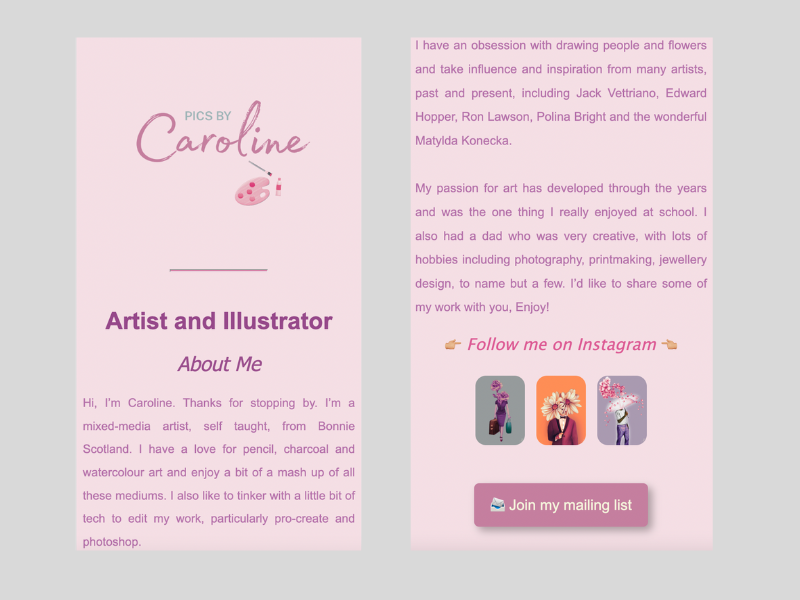
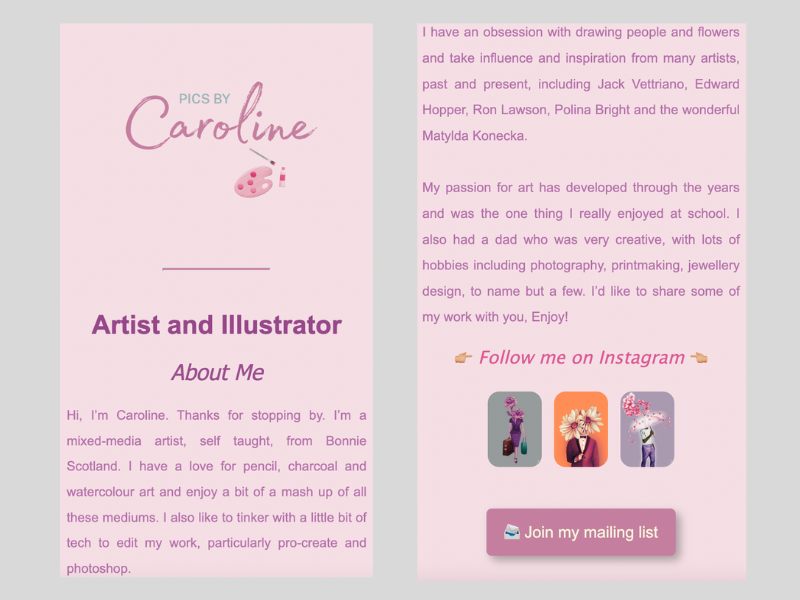
project page reposition and titles

diff --git a/projects.html b/projects.html
@@ -28,7 +28,7 @@
     
       <div class="container-fluid">
         <div class="row-intro">
-          <div class="hello"><a href="top"><h3 style="display: inline;">"Hello,  </h3></a><h3 class="name">I'm Caroline from Scotland.</h3><h3 style="display:inline">   I'm a web developer".</h3></div>
+          <div class="hello"><a href="top"><h3 style="display: inline;">"Here are a few of </h3></a><h3 style="display:inline" class="name">my projects".</h3></div>
           
           <nav class="navbar sticky-top navbar-expand-lg navbar-cc">
  
@@ -68,7 +68,7 @@
                 class="home"
                 aria-current="page"
                 href="projects.html"
-                >Home</a
+                >Projects</a
               >
             </li>
             <li class="nav-item">
@@ -88,39 +88,37 @@
 
 <div class="container-fluid">
   <div class="row">
-    <div class="col one p-5" >
-      <img src="images/landing_page.png" alt="cazcodes landing page" class="img-fluid mt-5 shadow-lg p-1 mb-3 rounded" />
-    </div>
-    <div class="col two p-5 text-start">
-      <h2 class="headings mt-5 mb-5"><strong>Landing Page Project</strong></h2>
-      <p>This is a landing page I built at the very beginning of my journey into coding with She Codes.  This landing page was made with html and css. The brief for the project was to build a landing page about something you are interested in.  Was a natural choice for me to pick my interest in art and design.</p>
-      <section class="lplink-position"><a href="https://astounding-parfait-644292.netlify.app/" target="_blank" class="link">Link to Landing Page</a></section>
-    </div>
-  </div>
- <div class="row">
       <div class="col one p-5" >
       <h2 class="headings mt-5 mb-5"><strong>Tropical Weather App Project</strong></h2>
-      <p>This is a weather app I built using Html, CSS and JavaScript.  This was my own design and was a project for the SheCodes Plus Workshop.</p>
-      <section class="lplink-position"><a href="https://starlit-puppy-6dbda2.netlify.app/" target="_blank" class="link">Link to Weather App</a></section>
-      </div>
-   
-    <div class="col two p-5" id="tropical-weather">
+      <p>This is a weather app I built using Html, CSS and JavaScript.  This was my own design.  During the project build I gained knowledge of how APis work to pull live information from the internet to make this app function.</p>
+          </div>
+       <div class="col two p-5" id="tropical-weather">
       <img src="images/tropical.png" alt="weather app" class="img-fluid mt-5 shadow-lg p-1 mb-3 rounded" />
+      <section class="lplink-position"><a href="https://starlit-puppy-6dbda2.netlify.app/" target="_blank" class="link">Link to Weather App</a></section></div>
     </div>
+
+<div class="row">
+      <div class="col one p-5" >
+      <h2 class="headings mt-5 mb-5"><strong>Landing Page Project</strong></h2>
+      <p>This is a landing page for a hobby of mine, digital and traditional art.  It was my first project with SheCodes using Html and CSS.</p>
+          </div>
+       <div class="col two p-5">
+      <img src="images/landing_page.png" alt="landing page" class="langing-page img-fluid mt-5 shadow-lg p-1 mb-3 rounded" />
+      <section class="lplink-position"><a href="https://astounding-parfait-644292.netlify.app/" target="_blank" class="link">Link to Landing Page</a></section></div>
     </div>
-  <div class="row">
-    <div class="col one p-5"  >
-      <img src="images/grey_weather.png" alt="alternate weather app" class="img-fluid mt-5 shadow-lg p-1 mb-3 rounded" />
+
+    <div class="row">
+      <div class="landing-page col one p-5" >
+      <h2 class="headings mt-5 mb-5"><strong>Weather App Alternative Project</strong></h2>
+      <p>This is a weather app I built using Html, CSS and JavaScript.  This was my own design, restyled from my original app and was a project for the SheCodes Plus Workshop.</p>
+          </div>
+       <div class="col two p-5" id="tropical-weather">
+      <img src="images/grey_weather.png" alt="weather app" class="img-fluid mt-5 shadow-lg p-1 mb-3 rounded" />
+      <section class="lplink-position"><a href="https://stately-starlight-91baf4.netlify.app/" target="_blank" class="link">Link to Weather App</a></section></div>
     </div>
-    <div class="col two p-5 text-start">
-      <h2 class="headings mt-5 mb-5"><strong>Alternate Weather App Project</strong></h2>
-      <p>This is a re-styled weather app I worked on using a simple theme.  I used Html, CSS and Javascript to complete this project.  I gained an understanding of how APis work to source live data from the internet in order for this app to function.</p>
-      <section class="lplink-position"><a href="https://stately-starlight-91baf4.netlify.app/" target="_blank" class="link">Link to Weather App</a></section>
+
+ 
     
-    <br />
-  <br />
-    
-        </div>
 
 <div class="linktree">
    <h2 class="headings mt-5 mb-3"><strong>Future Projects</strong></h2>
@@ -136,6 +134,7 @@
  <a class="top" href="#top">Back to top</a><br />
       </div>
  </div>
+
  
 
     <!-- JavaScript Bundle with Popper -->

diff --git a/src/styles.css b/src/styles.css
@@ -129,6 +129,9 @@ button.navbar-toggler {
   font-size: 1.25rem;
   margin-bottom: -13px;
 }
+.navbar-collapse {
+  margin-top: 13px;
+}
 
 .nav-link {
   color: hsl(325, 88%, 35%);
@@ -335,7 +338,7 @@ div.main {
   display: flex;
   flex-direction: column;
   align-items: center;
-  margin-top: 52px;
+  margin-top: 20px;
   margin-bottom: -38px;
 }
 #caroline {
@@ -522,9 +525,7 @@ a {
   }
   p {
     font-size: 16px;
-    margin-top: 0;
     text-align: justify;
-    margin: 28px 26px;
   }
   .logo {
     display: none;
@@ -533,11 +534,11 @@ a {
     font-size: 24px !important;
   }
   .headings {
-    font-size: 23px;
-    margin-top: 0;
+    font-size: 21px;
+    margin-left: 8px;
   }
   .mb-3 {
-    margin-bottom: 1rem !important;
+    margin-bottom: 2rem !important;
   }
   .mt-5 {
     margin-top: -1rem !important;
@@ -546,11 +547,12 @@ a {
     margin-bottom: 2rem !important;
   }
   .p-5 {
-    padding: 17px !important;
-    margin-top: 30px;
-    margin-bottom: 39px;
-    margin-left: -8px;
+    padding: 12px !important;
+    margin-top: 45px;
+    margin-bottom: -3px;
+    margin-left: -6px;
   }
+
   h3 {
     font-size: 28px;
     margin-bottom: 0px;
@@ -563,7 +565,7 @@ a {
     font-size: 28px !important;
   }
   .hello {
-    margin-top: 34px;
+    margin-top: 40px;
     margin-bottom: 9px;
     margin-left: -9px;
     margin-right: 10px;
@@ -579,8 +581,8 @@ a {
   }
 
   .img-fluid {
-    max-inline-size: 113%;
-    margin-left: -21px;
+    max-inline-size: 100%;
+    margin-left: 5px;
   }
   #tropical-weather {
     margin-top: -14px;
@@ -610,15 +612,25 @@ a {
   .linktree {
     font-size: large;
     color: var(---primary-font-color);
-    padding: 7px;
+    padding-top: 55px;
     line-height: 25px;
   }
   .link-linktree {
     font-family: var(---alternative-font-family);
   }
+  p.linktree {
+    display: flex;
+    align-items: center;
+    flex-direction: column;
+    font-family: var(---alternative-font-family);
+    color: #ececec;
+    margin-top: -58px;
+    margin-bottom: 28px;
+  }
   .para-me {
     font-family: var(---alternative-font-family);
     margin-top: 7px;
+    font-size: 18px;
   }
   #caroline {
     margin: 32px 0px 0px 12px;
@@ -636,9 +648,12 @@ a {
     font-size: 2px;
   }
   div.main {
+    display: flex;
     flex-direction: column;
     align-items: center;
-    margin-bottom: -11px;
+  }
+  #achievement {
+    margin-top: 60px !important;
   }
 
   div.container-fluid {
@@ -649,7 +664,7 @@ a {
     box-shadow: var(---box-shadow-links);
     background-color: #0000000a;
     justify-content: center;
-    padding: 65px;
+    padding: 2px 21px;
   }
   .enter-logo {
     max-width: 350px;
@@ -676,5 +691,8 @@ a {
   }
   .achievements {
     font-size: 15px;
+    letter-spacing: 1px;
+    color: #ececec;
+    padding: 10px;
   }
 }

diff --git a/about.html b/about.html
@@ -66,7 +66,7 @@
                 class="home"
                 aria-current="page"
                 href="projects.html"
-                >Home</a
+                >Projects</a
               >
             </li>
             <li class="nav-item">
@@ -104,7 +104,7 @@ I am also building relationships with beginner and senior developers alike throu
   </p>
 </div>
 
- <h2 class="headings mt-5 mb-5" class="achievement-title"><strong>My achievements so far ...</strong></h2>
+ <h2 class="headings mt-5 mb-5" id="achievement"><strong>My achievements so far ...</strong></h2>
  <div class="achievements">
 <Ul>
   <li>Code Clan - Intro to Tech - Jan 2022

diff --git a/contact.html b/contact.html
@@ -67,7 +67,7 @@
                 class="home"
                 aria-current="page"
                 href="projects.html"
-                >Home</a
+                >Projects</a
               >
             </li>
             <li class="nav-item">
